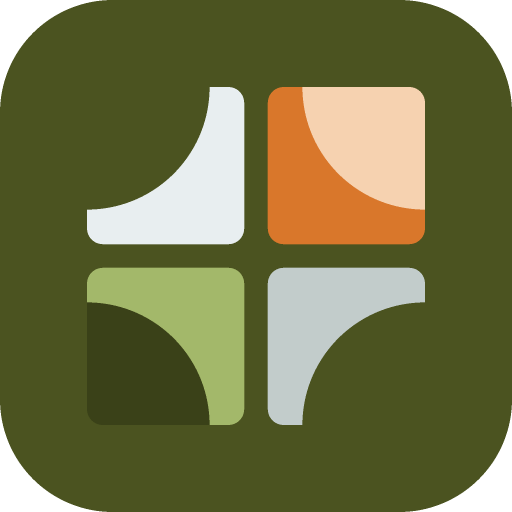
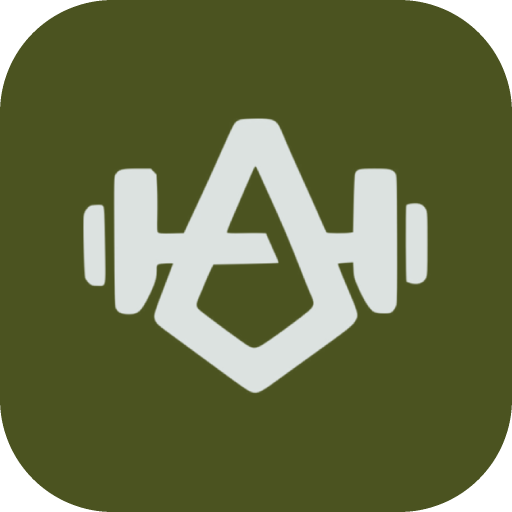
Novo ícone (halter + A) em verde militar e gelo (v1.4.2)

Changed region(s): [[0.1562, 0.1562, 0.8438, 0.8438]]

diff --git a/sw.js b/sw.js
@@ -1,5 +1,5 @@
 // Service worker do Atlas Fitness: funciona offline. Atualize VERSAO a cada publicação para renovar o cache.
-const VERSAO = 'atlas-v1.4.1';
+const VERSAO = 'atlas-v1.4.2';
 const ARQUIVOS = [
   './',
   './css/app.css',
@@ -10,6 +10,7 @@ const ARQUIVOS = [
   './icons/apple-touch-icon.png',
   './icons/favicon-32.png',
   './icons/icon-192.png',
+  './icons/icon-48-teste.png',
   './icons/icon-512.png',
   './icons/icon-maskable-512.png',
   './index.html',
